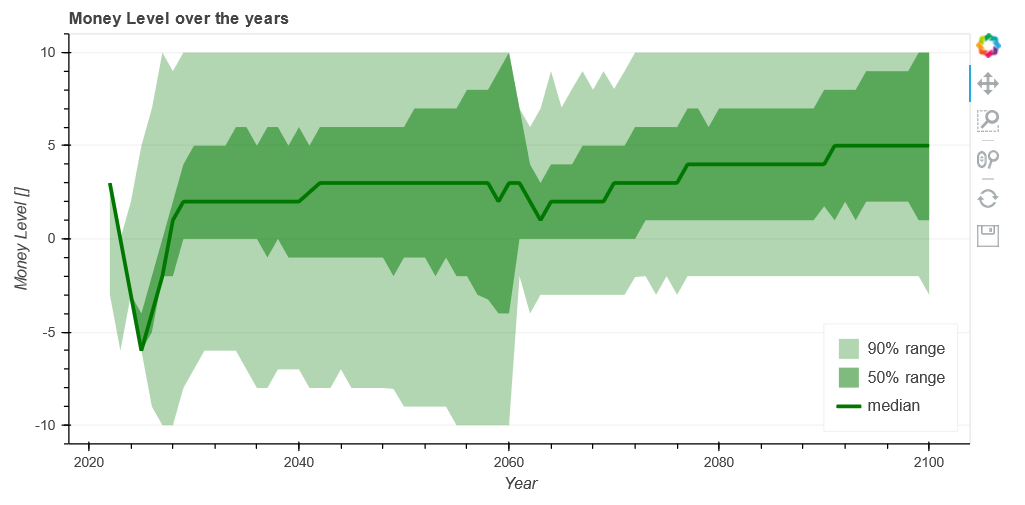
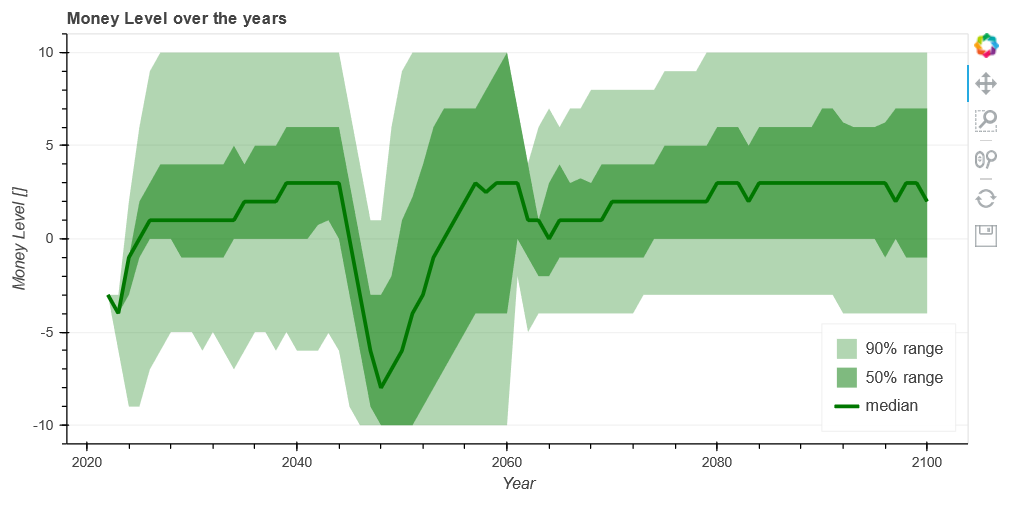
added first crisis

diff --git a/fup/core/module.py b/fup/core/module.py
@@ -6,6 +6,7 @@ class Module:
         self.depends_on_modules = set()
         self.modifies_modules = set()
         self.dependency_check = False
+        self.reset_values = dict()
 
     def set_manager(self, manager):
         self.manager = manager
@@ -22,21 +23,36 @@ class Module:
     def profile(self):
         return self.manager.profile
 
-    def get_prop_setter(self, module_name, prop):
+    # TODO rename set_prop and get_prop to show difference
+    def set_prop(self, prop_name, value):
+        if prop_name not in self.reset_values:
+            self.reset_values[prop_name] = getattr(self, prop_name)
+        if value is None:
+            setattr(self, prop_name, self.reset_values[prop_name])
+            del self.reset_values[prop_name]
+        else:
+            setattr(self, prop_name, value)
+
+    def get_prop(self, module_name, prop_name):
+        if self.dependency_check:
+            self.depends_on_modules.add(module_name)
+        return getattr(self.manager.get_module(module_name), prop_name)
+
+    def get_prop_setter(self, module_name, prop_name):
         if self.dependency_check:
             self.modifies_modules.add(module_name)
-        return lambda x: setattr(self.manager.get_module(module_name), prop, x)
+        return lambda x: self.manager.get_module(module_name).set_prop(prop_name=prop_name, value=x)
 
     def get_prop_setter_function(self, module_name, prop):
         if self.dependency_check:
             self.modifies_modules.add(module_name)
         return getattr(self.manager.get_module(module_name), prop)
 
-    def get_prop(self, module_name, prop):
-        if self.dependency_check:
-            self.depends_on_modules.add(module_name)
-        return getattr(self.manager.get_module(module_name), prop)
+    # wrapper which can be overwritten by submodule class
+    def calc_next_year(self):
+        self.next_year()
 
+    # Implemented by each module definition
     def next_year(self):
         pass
 
@@ -62,14 +78,31 @@ class Module:
 class ChangeModule(Module):
     def __init__(self, manager=None):
         super().__init__(manager)
-        self.expenses = 0
-        self.income = 0
+        self._expenses = 0
+        self._expense_modifier = 1
+        self._income = 0
+        self._income_modifier = 1
 
-    def add_income(self, income):
-        self.manager.income += income
+    @property
+    def expenses(self):
+        return self._expenses * self._expense_modifier
 
-    def add_expenses(self, expenses):
-        self.manager.expenses += expenses
+    @expenses.setter
+    def expenses(self, value):
+        self._expenses = value
+
+    @property
+    def income(self):
+        return self._income * self._income_modifier
+
+    @income.setter
+    def income(self, value):
+        self._income = value
+
+    def calc_next_year(self):
+        self.next_year()
+        self.manager.income += self.income
+        self.manager.expenses += self.expenses
 
     def info_dict(self):
         return dict(
@@ -96,6 +129,9 @@ class AssetModule(Module):
 
     def change(self, money):
         self.count += money/self.asset_value
+
+    def change_value(self, relative_change):
+        self.asset_value *= relative_change
 
     def info_dict(self):
         return dict(

diff --git a/fup/modules/events/crisis.py b/fup/modules/events/crisis.py
@@ -1,0 +1,49 @@
+from fup.core.module import ChangeModule
+
+
+class OilCrisis1973(ChangeModule):
+    """
+    https://en.wikipedia.org/wiki/1973_oil_crisis
+    Stagflation
+    Oil price went from 20$ to 100$
+    Many insolvencies, high unemployment -> economic groth went down
+    Fiscal stimulus -> inflation
+
+    Inflation 8.7 (1973) ->  12.3 (1974) -> 6.9 (1975)  https://www.macrotrends.net/2497/historical-inflation-rate-by-year
+    Dow Jones 6300 (1973) -> 3181 (1974) -> 4100 (1975) https://www.macrotrends.net/1319/dow-jones-100-year-historical-chart
+    Gold 400 (1973) -> 770 (1974) -> 660 (1975) https://www.macrotrends.net/1333/historical-gold-prices-100-year-chart
+    >> Gold was legalised 1973 in USA!
+    """
+
+    def __init__(self, manager, start_year):
+        super().__init__(manager)
+        self.start_year = start_year
+
+    def next_year(self):
+        set_prob_lose_job = self.get_prop_setter("main.work.Job", "prob_lose_job")
+        set_prob_find_job = self.get_prop_setter("main.work.Job","prob_find_job")
+        set_mean_inflation = self.get_prop_setter("main.environment.Inflation", "mean_inflation")
+        change_gold_value = self.get_prop_setter_function("main.assets.Gold", "change_value")
+        change_stocks_value = self.get_prop_setter_function("main.assets.Stocks", "change_value")
+
+        if self.year == self.start_year:
+            set_prob_lose_job(20)
+            set_prob_find_job(5)
+            set_mean_inflation(8.7)
+        elif self.year == self.start_year+1:
+            set_mean_inflation(12.3)
+            change_gold_value(770./400.)
+            change_stocks_value(3181/6300)
+        elif self.year == self.start_year + 2:
+            set_mean_inflation(6.9)
+            change_gold_value(660./770.)
+            change_stocks_value(4100./3181.)
+        elif self.year == self.start_year + 3:
+            set_mean_inflation(None)
+            set_prob_lose_job(None)
+            set_prob_find_job(None)
+        else:
+            pass
+
+    def get_extra_info(self):
+        return f"start: {self.start_year}"

diff --git a/fup/modules/main/insurances.py b/fup/modules/main/insurances.py
@@ -13,7 +13,6 @@ class InsuranceHealth(ChangeModule):
     def next_year(self):
         income = self.get_prop("main.work.Job", "income") + self.get_prop("main.insurances.InsurancePension", "income")
         self.expenses = income * self.fraction_of_income
-        self.add_expenses(self.expenses)
 
 
 class InsuranceNursingCare(ChangeModule):
@@ -32,7 +31,6 @@ class InsuranceNursingCare(ChangeModule):
 
         income = self.get_prop("main.work.Job", "income") + self.get_prop("main.insurances.InsurancePension", "income")
         self.expenses = income * self.fraction_of_income
-        self.add_expenses(self.expenses)
 
 
 class InsurancePension(ChangeModule):
@@ -84,8 +82,6 @@ class InsurancePension(ChangeModule):
             self.income = self.entgeltpunkte * self.rentenwert
             self.expenses = 0
 
-        self.add_income(self.income)
-        self.add_expenses(self.expenses)
 
 
 class InsuranceUnemployment(ChangeModule):
@@ -128,5 +124,3 @@ class InsuranceUnemployment(ChangeModule):
             self.income = month_you_get_money * salary_per_month * (1 - tax_rate) * self.salary_fraction
             self.expenses = min(12-unemployed_months, 0) * salary_per_month * self.fraction_of_income
 
-        self.add_income(self.income)
-        self.add_expenses(self.expenses)

diff --git a/fup/modules/main/work.py b/fup/modules/main/work.py
@@ -14,8 +14,8 @@ class Job(ChangeModule):
         self.birth_year = manager.config["profile"]["birth_year"]
 
         # Helper props
-        self.prob_lose_job = 1. / 90.
-        self.prob_find_job = 1. / 12.
+        self.prob_lose_job = 1.
+        self.prob_find_job = 10.
         # How much does it costs to find a new job?
         # Movement ?
         # Lower salary?
@@ -41,10 +41,10 @@ class Job(ChangeModule):
             self.unemployed_months = 0
             for i in range(12):  # 12 months
                 if self.unemployed_since > 0:
-                    if random.random() < self.prob_find_job:
+                    if random.random() < self.prob_find_job/100:
                         self.unemployed_since = 0
                 else:
-                    if random.random() < self.prob_lose_job:
+                    if random.random() < self.prob_lose_job/100.:
                         self.unemployed_since = 1
 
                 if self.unemployed_since > 0:
@@ -54,5 +54,3 @@ class Job(ChangeModule):
             self.salary_per_month *= inflation
 
         self.income = (12 - self.unemployed_months) * self.salary_per_month
-
-        self.add_income(self.income)

diff --git a/fup/modules/main/assets.py b/fup/modules/main/assets.py
@@ -21,6 +21,8 @@ class Stocks(AssetModule):
         self.value_increase_std = value_increase_std
         self.change(money=start_money_value)
 
+        # TODO add 25% tax on value increase, when sold
+
     def next_year(self):
         if self.config["simulation"]["random"]:
             self.asset_value *= 1 + random.gauss(mu=self.value_increase_mean, sigma=self.value_increase_std)
@@ -38,6 +40,9 @@ class Gold(AssetModule):
         self.value_increase_mean = value_increase_mean
         self.value_increase_std = value_increase_std
         self.change(money=start_money_value)
+
+        # no tax, if gold is hold longer than 1 year
+        # differntial tax on silver ~ 10% tax if bought, no tax if sold
 
     def next_year(self):
         if self.config["simulation"]["random"]:
@@ -78,5 +83,3 @@ class Investment(ChangeModule):
         change_gold(money=gold_change)
         change_money(money=-gold_change)
         self.expenses += abs(gold_change) * 0.10  # exchange costs
-
-        self.add_expenses(self.expenses)

diff --git a/fup/modules/main/other.py b/fup/modules/main/other.py
@@ -9,7 +9,6 @@ class OtherExpenses(ChangeModule):
     def next_year(self):
         total_inflation = self.get_prop("main.environment.Inflation", "total_inflation")
         self.expenses = total_inflation * self.start_expenses
-        self.add_expenses(self.expenses)
 
 
 class LuxuryExpenses(ChangeModule):
@@ -23,4 +22,3 @@ class LuxuryExpenses(ChangeModule):
         self.expenses = total_inflation * self.start_expenses
         # adapt to money situation
         self.expenses *= 1. + self.profile.money_level/10.
-        self.add_expenses(self.expenses)

diff --git a/fup/core/manager.py b/fup/core/manager.py
@@ -46,7 +46,7 @@ class Manager:
         self.income = 0
         self.expenses = 0
         for module_name in self.modules:
-            self.modules[module_name].next_year()
+            self.modules[module_name].calc_next_year()
 
         self.get_module("main.assets.Money").count += self.income - self.expenses
 

diff --git a/fup/modules/main/mobility.py b/fup/modules/main/mobility.py
@@ -9,5 +9,3 @@ class Car(ChangeModule):
     def next_year(self):
         total_inflation = self.get_prop("main.environment.Inflation", "total_inflation")
         self.expenses = total_inflation * self.start_expenses
-
-        self.add_expenses(self.expenses)

diff --git a/fup/modules/main/home.py b/fup/modules/main/home.py
@@ -10,4 +10,3 @@ class Flat(ChangeModule):
     def next_year(self):
         inflation = self.get_prop("main.environment.Inflation", "inflation")
         self.expenses *= inflation
-        self.add_expenses(self.expenses)

diff --git a/fup/modules/main/taxes.py b/fup/modules/main/taxes.py
@@ -53,5 +53,3 @@ class Taxes(ChangeModule):
 
         self.tax_rate = self.calcualte_taxrate(taxable_income=taxable_income)
         self.expenses = taxable_income * self.tax_rate
-
-        self.add_expenses(self.expenses)

diff --git a/fup/__init__.py b/fup/__init__.py
@@ -10,4 +10,4 @@
 __version__ = '0.1'
 
 import fup.modules.main
-
+import fup.modules.events

diff --git a/fup/modules/events/__init__.py b/fup/modules/events/__init__.py
@@ -1,0 +1,1 @@
+from fup.modules.events import crisis
